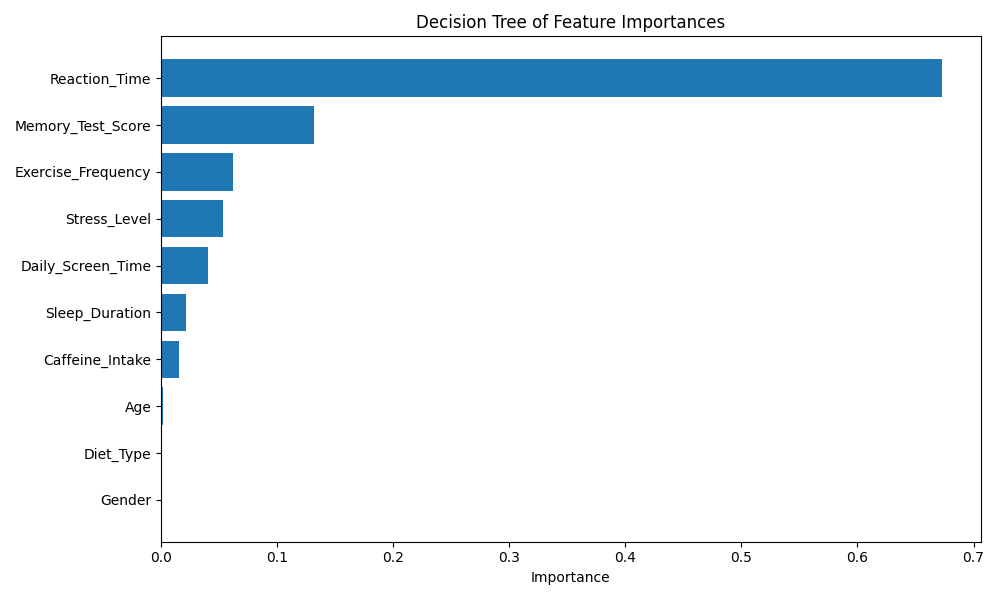
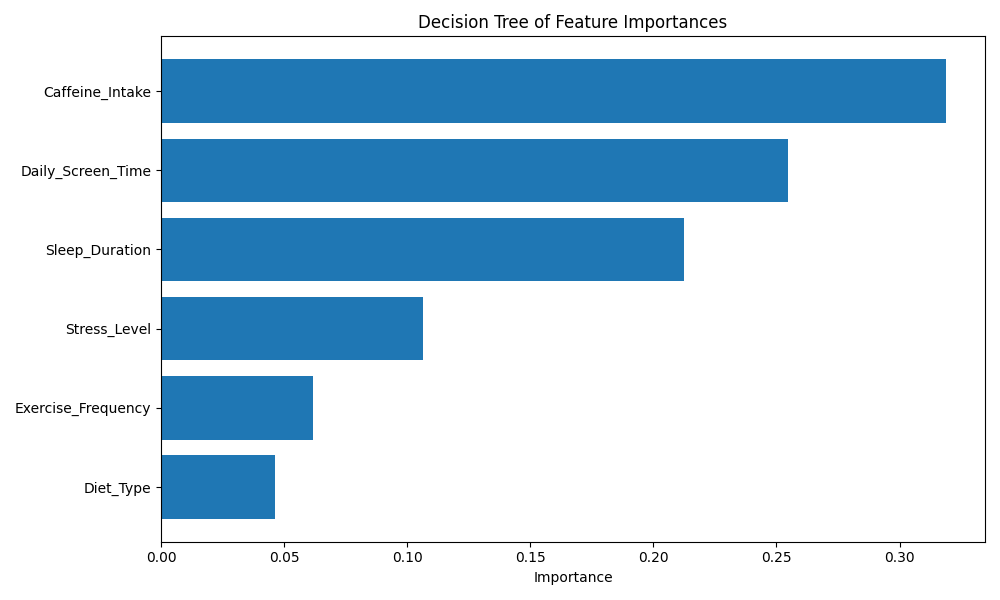
Update decision tree to only use factors and drop measures of performance

diff --git a/decision-tree.py b/decision-tree.py
@@ -10,11 +10,15 @@ df = pd.read_csv("human_cognitive_performance.csv")
 # Drop columns that are not useful for training the model. 
 # 'User_ID' = just a unique identifier and no influence on the outcome.
 # 'AI_Predicted_Score' = is a prediction so we don't want to include it in our new prediction.
-df = df.drop(columns=['User_ID', 'AI_Predicted_Score'])
+# 'Reaction_Time' = is a measure of cognitive performance
+# 'Memory_Test_Score' = is a measure of cognitive performance
+# 'Age' = personal characteristic
+# 'Gender' = personal characteristic
+df = df.drop(columns=['User_ID', 'AI_Predicted_Score', 'Reaction_Time', 'Memory_Test_Score', 'Age', 'Gender'])
 
 # Encode categorical features to convert them to numeric form so it can be interpreted properly.
 label_encoders = {}
-for col in ['Gender', 'Diet_Type', 'Exercise_Frequency']:
+for col in ['Diet_Type', 'Exercise_Frequency']:
     le = LabelEncoder()
     df[col] = le.fit_transform(df[col]) # replaces the category to integer codes
     label_encoders[col] = le # store the encoders just in case the decoding is needed later
